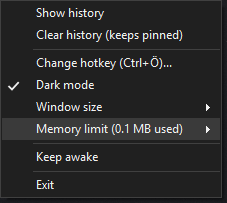
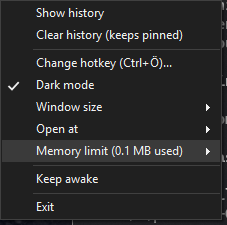
Open the popup at the text cursor (tray menu "Open at", -OpenAt)
"Open at" in the tray menu (and -OpenAt Mouse|TextCursor, also passed on
by Install.ps1) lets the hotkey open the popup just below the text cursor
of the window you are typing in - above it at the bottom of the screen -
instead of at the mouse pointer.

src\Caret.cs asks for the text cursor before the popup takes the focus:
the system caret (GetGUIThreadInfo: classic text boxes, rich edit,
Office), else the accessible caret object (OBJID_CARET) that browsers and
Electron apps offer for screen magnifiers - not for hung windows, as
asking would wait. Programs that report neither (e.g. terminals) get the
popup at the mouse pointer as before.

Tests: placement rules (below, above, inside the work area); the
end-to-end test switches the tray menu to "Text cursor", opens the popup
in a rich text box and checks its position, and finds the same text
cursor through accessibility. New README tray screenshot.

diff --git a/src/Caret.cs b/src/Caret.cs
@@ -1,0 +1,101 @@
+// psclip: Where the text cursor (caret) of another program is - to open the popup there.
+// Compiled with the other src\*.cs files at startup (Add-Type) as C# 5 - see AGENTS.md. ASCII only.
+
+using System;
+using System.Drawing;
+using System.Runtime.InteropServices;
+using Accessibility;
+
+namespace PsClip
+{
+    // Asks the program in front for its text cursor: first as the system caret (classic text boxes,
+    // rich edit, Office), then as the accessible caret object that browsers and Electron apps offer
+    // for screen magnifiers. Programs that report neither (e.g. terminals) give Rectangle.Empty.
+    public static class Caret
+    {
+        [StructLayout(LayoutKind.Sequential)]
+        struct NativeRect
+        {
+            public int Left, Top, Right, Bottom;
+        }
+
+        [StructLayout(LayoutKind.Sequential)]
+        struct NativePoint
+        {
+            public int X, Y;
+        }
+
+        [StructLayout(LayoutKind.Sequential)]
+        struct GuiThreadInfo
+        {
+            public int Size;
+            public uint Flags;
+            public IntPtr Active, Focus, Capture, MenuOwner, MoveSize, CaretWindow;
+            public NativeRect CaretRect;
+        }
+
+        [DllImport("user32.dll")] static extern uint GetWindowThreadProcessId(IntPtr hwnd, out uint processId);
+        [DllImport("user32.dll")] static extern bool GetGUIThreadInfo(uint threadId, ref GuiThreadInfo info);
+        [DllImport("user32.dll")] static extern bool ClientToScreen(IntPtr hwnd, ref NativePoint point);
+        [DllImport("user32.dll")] static extern bool IsHungAppWindow(IntPtr hwnd);
+
+        [DllImport("oleacc.dll")]
+        static extern int AccessibleObjectFromWindow(IntPtr hwnd, uint objectId, ref Guid iid,
+            [MarshalAs(UnmanagedType.Interface)] out object accessible);
+
+        const uint ObjectIdCaret = 0xFFFFFFF8;   // OBJID_CARET
+        static readonly Guid AccessibleId = new Guid("618736E0-3C3D-11CF-810C-00AA00389B71");   // IAccessible
+
+        // Screen rectangle of the text cursor in the thread of the window, or Rectangle.Empty.
+        public static Rectangle Find(IntPtr window)
+        {
+            uint processId;
+            uint thread = GetWindowThreadProcessId(window, out processId);
+            if (thread == 0) return Rectangle.Empty;
+            GuiThreadInfo info = new GuiThreadInfo();
+            info.Size = Marshal.SizeOf(typeof(GuiThreadInfo));
+            if (!GetGUIThreadInfo(thread, ref info)) return Rectangle.Empty;
+
+            NativeRect rect = info.CaretRect;
+            if (info.CaretWindow != IntPtr.Zero && rect.Bottom > rect.Top)
+            {
+                NativePoint topLeft = new NativePoint();
+                topLeft.X = rect.Left;
+                topLeft.Y = rect.Top;
+                if (ClientToScreen(info.CaretWindow, ref topLeft))
+                {
+                    int width = Math.Max(1, rect.Right - rect.Left);
+                    return new Rectangle(topLeft.X, topLeft.Y, width, rect.Bottom - rect.Top);
+                }
+            }
+            return FromAccessible(info.Focus != IntPtr.Zero ? info.Focus : window);
+        }
+
+        // The window's accessible caret object (OBJID_CARET). Not for a hung window: asking it would
+        // wait for it.
+        public static Rectangle FromAccessible(IntPtr window)
+        {
+            if (window == IntPtr.Zero || IsHungAppWindow(window)) return Rectangle.Empty;
+            object found = null;
+            try
+            {
+                Guid id = AccessibleId;
+                if (AccessibleObjectFromWindow(window, ObjectIdCaret, ref id, out found) != 0) return Rectangle.Empty;
+                IAccessible caret = found as IAccessible;
+                if (caret == null) return Rectangle.Empty;
+                int left, top, width, height;
+                caret.accLocation(out left, out top, out width, out height, 0);   // 0 = the object itself
+                if (height <= 0) return Rectangle.Empty;   // no text cursor right now
+                return new Rectangle(left, top, Math.Max(1, width), height);
+            }
+            catch (Exception)
+            {
+                return Rectangle.Empty;   // the program does not offer it
+            }
+            finally
+            {
+                if (found != null && Marshal.IsComObject(found)) Marshal.ReleaseComObject(found);
+            }
+        }
+    }
+}

diff --git a/README.md b/README.md
@@ -13,8 +13,8 @@ The history lives in memory only and is gone when the script exits.
 
 - Records all text you copy, newest first, up to a **memory limit** (100 MB, 500 MB or 1 GB, switchable in the tray
   menu) - the oldest entries are dropped; copying an entry again moves it to the top
-- **Hotkey popup** (default `Ctrl+Ö` on a German keyboard) next to the mouse cursor: type to filter, `Enter` pastes
-  into the window you were working in
+- **Hotkey popup** (default `Ctrl+Ö` on a German keyboard) at the mouse pointer - or below the text cursor, switchable
+  in the tray menu: type to filter, `Enter` pastes into the window you were working in
 - **Keeps the formatting** (HTML and RTF, e.g. from Word, Outlook or a browser): `Enter` pastes with formatting,
   `Shift+Enter` as plain text
 - **Images** too, e.g. screenshots: shown with a thumbnail
@@ -101,7 +101,8 @@ conhost.exe --headless powershell.exe -NoProfile -File .\ClipboardManager.ps1
 
 ## Usage
 
-Press the hotkey anywhere. The popup opens at the mouse cursor:
+Press the hotkey anywhere. The popup opens at the mouse pointer, or - with *Open at > Text cursor* in the tray menu
+(`-OpenAt TextCursor`) - just below the text cursor of the window you are typing in:
 
 | Key                            | Action                                           |
 | ------------------------------ | ------------------------------------------------ |
@@ -138,6 +139,7 @@ The **tray icon** (a small blue clipboard, possibly in the `^` overflow area of 
   - *Change hotkey* - press the new combination
   - *Dark mode* - on / off
   - *Window size* - Small, Medium, Large
+  - *Open at* - Mouse pointer, Text cursor
   - *Memory limit* - 100 MB, 500 MB, 1 GB; shows how much the history uses. A lower limit drops the oldest
     entries right away
   - *Keep awake* - on / off (off by default)
@@ -162,6 +164,7 @@ windows). Windows then never sees the session as idle. While you are working, no
 | `-Hotkey`           | `Ctrl+Ö` | Modifiers `Ctrl`, `Alt`, `Shift`, `Win` plus a key: a key name (`V`, `F12`, `Space`, `1`, ...) or the character on the key (`Ö`, `Ä`, `#`, ...) |
 | `-Theme`            | `Dark`   | `Dark`, `Light` or `Auto` (follow the Windows app theme)                    |
 | `-Size`             | `M`      | Popup size `S`, `M` or `L` - mostly the height (about 6, 10 or 17 entries visible) |
+| `-OpenAt`           | `Mouse`  | Where the hotkey opens the popup: `Mouse` (pointer) or `TextCursor`         |
 | `-MaxMemory`        | `100MB`  | Memory the history may use: `100MB`, `500MB` or `1GB` (pinned entries count, but are never dropped) |
 | `-MaxEntryLength`   | `1000000`| Texts with more characters are not recorded                                 |
 | `-Preview`          | off      | Open the popup with the preview (`F3`) shown                                |
@@ -207,6 +210,9 @@ processes, open the *Details* tab, right-click a column header, *Select columns*
 - **The memory limit** counts what the history stores: texts with their formatting, images (PNG-compressed, plus a
   thumbnail) and the text recognized in them. psclip itself - PowerShell and .NET - needs about 100 MB on top. The
   list shows the first 1,000 matching entries; type to find older ones (the filter searches all of them).
+- **Opening at the text cursor** needs the program to report where its text cursor is. Classic Windows programs and
+  Office do, browsers and Electron apps (VS Code, Teams) report it for screen magnifiers; others, e.g. terminals,
+  don't - then the popup opens at the mouse pointer.
 - **In memory only** means psclip never writes the history anywhere. Windows itself may still move memory to the
   page file or into a crash dump, like for any program.
 - **Windows running as administrator** do not accept the simulated `Ctrl+V` from a normal process. The entry is

diff --git a/AGENTS.md b/AGENTS.md
@@ -17,7 +17,7 @@ See [README.md](README.md) for features and usage.
 | `src/Ocr.ps1`                     | Text in images (Windows.Media.Ocr), in the background                |
 | `src/KeepAwake.ps1`               | Keep awake (unrelated to the clipboard)                              |
 | `src/Window.ps1`                  | Building the popup window, the menus and the tray icon               |
-| `src/*.cs`                        | C# helpers, compiled together with `Add-Type`: `Native` (Win32 calls), `ClipboardHost` (hidden window), `ClipEntry`, `MenuRenderer` |
+| `src/*.cs`                        | C# helpers, compiled together with `Add-Type`: `Native` (Win32 calls), `ClipboardHost` (hidden window), `ClipEntry`, `MenuRenderer`, `Caret` (text cursor of another program) |
 | `Install.ps1`                     | Creates/removes Start menu and autostart shortcuts                   |
 | `tests/<Part>.Tests.ps1`          | Unit tests per part file (Pester 3.4 syntax)                         |
 | `tests/UnitTestSupport.ps1`       | Shared unit-test setup: loads the app, `Reset-TestState`, helpers    |
@@ -105,7 +105,10 @@ See [README.md](README.md) for features and usage.
 - Pasting: `Invoke-SelectedEntry` sets the clipboard, `ForceForeground`s the window that was active when the hotkey
   was pressed (while the popup is still open - hiding it first lets Windows activate another window), and
   `PsClip.Native.PasteInto` waits for released keys, checks the foreground again and sends Ctrl+V with one
-  `SendInput` call. Never send keystrokes without such a foreground check - also not in tests or ad-hoc diagnostic
+  `SendInput` call. With `-OpenAt TextCursor` (`$State.OpenAt`), `Show-Popup` asks `PsClip.Caret.Find` for the text
+  cursor of that window before the popup takes the focus: the system caret (`GetGUIThreadInfo`), else the
+  accessible caret object (`OBJID_CARET`, browsers and Electron apps; skipped for hung windows, as asking waits);
+  `Get-PopupLocation` places the popup below it, above it at the screen's bottom, or at the mouse pointer. Never send keystrokes without such a foreground check - also not in tests or ad-hoc diagnostic
   scripts: they would type into whatever window the user has in front.
 - `ForceForeground` tries a plain `SetForegroundWindow` first (allowed after a real hotkey press or tray click) and
   attaches to another thread's input queue only as a fallback: attaching can leave a rich text box (Outlook, Word)
@@ -182,9 +185,10 @@ See [README.md](README.md) for features and usage.
    ```powershell
    powershell -NoProfile -ExecutionPolicy Bypass -File .\tests\Invoke-UnitTests.ps1
    ```
-2. End-to-end test - **ask the user first** (or have their standing permission): it opens windows on their desktop
-   and sends real keystrokes for about 45 seconds (guarded by foreground checks; the clipboard is restored
-   afterwards). It runs its own instance next to the user's psclip, which records the test's entries
+2. End-to-end test - **ask the user first** (or have their standing permission), and in any case tell them to step
+   away from the PC and wait for their go: it opens windows on their desktop and sends real keystrokes for about a
+   minute per theme (guarded by foreground checks; the clipboard is restored afterwards) - typing meanwhile makes
+   steps fail. It runs its own instance next to the user's psclip, which records the test's entries
    (`psclip test: ...`). It navigates the tray menu by counting `Down` presses (`Send-MenuKeys`) - update those
    counts when the menu order changes:
    ```powershell
